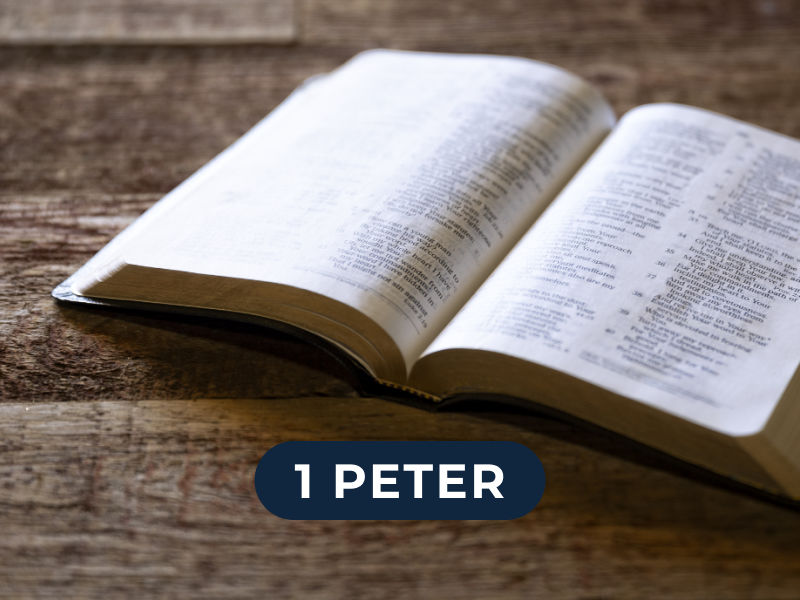
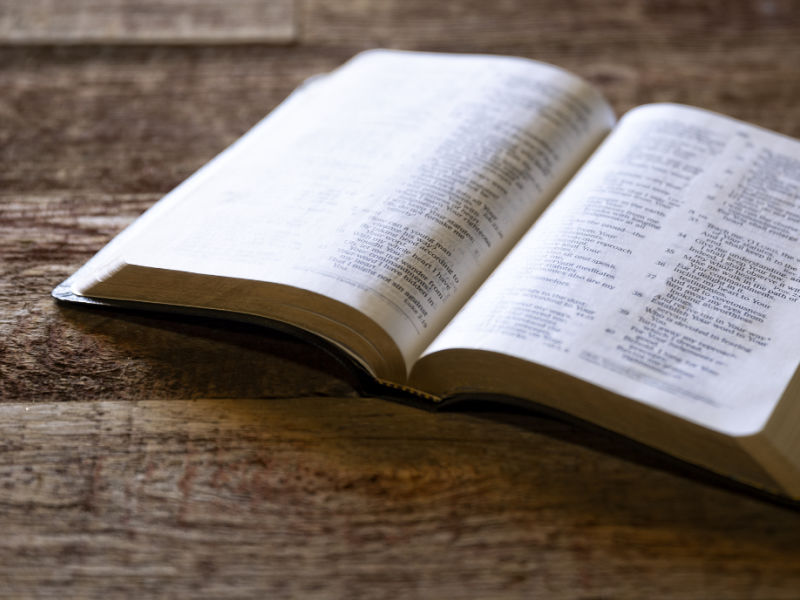
Removed text in sermon series images

Changed region(s): [[0.3125, 0.72, 0.6875, 0.87]]

diff --git a/layouts/index.html b/layouts/index.html
@@ -117,11 +117,21 @@
         {{ $latestSermon.Set "content" .Content }}
         {{ $latestSermon.Set "image" (default site.Params.sermons.defaultImage .Params.image) }}
         {{ $latestSermon.Set "alt" (default .Title .Params.series) }}
+        {{ $latestSermon.Set "series" .Params.series }}
       {{ end }}
       <div class="container">
         <div class="home-sermon | content-section | animate">
           <div class="content-section__media">
-            <img src="{{ $latestSermon.Get "image" }}" alt="{{ $latestSermon.Get "alt" }}" class="img img--fill img--rounded">
+            <figure class="sermon-image">
+              <img src="{{ $latestSermon.Get "image" }}" alt="{{ $latestSermon.Get "alt" }}" class="img img--fill img--rounded">
+              {{ with $latestSermon.Get "series" }}
+                <figcaption>
+                  <span class="pill-header">
+                    {{ . }}
+                  </span>
+                </figcaption>
+              {{ end }}
+            </figure>
           </div>
           <div class="content-section__body">
             <div class="content-section__header">

diff --git a/layouts/sermons/list.html b/layouts/sermons/list.html
@@ -4,7 +4,16 @@
         {{ range .Paginator.Pages }}
           <div class="content-section | animate">
             <div class="content-section__media">
-              <img src="{{ default site.Params.sermons.defaultImage .Params.image }}" alt="{{ default .Title .Params.series }}" class="img img--fill img--rounded">
+              <figure class="sermon-image">
+                <img src="{{ default site.Params.sermons.defaultImage .Params.image }}" alt="{{ default .Title .Params.series }}" class="img img--fill img--rounded">
+                {{ with .Params.series }}
+                  <figcaption>
+                    <span class="pill-header">
+                      {{ . }}
+                    </span>
+                  </figcaption>
+                {{ end }}
+              </figure>
             </div>
             <div class="content-section__body">
               <div class="content-section__header">

diff --git a/assets/scss/components/_page-header.scss b/assets/scss/components/_page-header.scss
@@ -1,7 +1,7 @@
 /*
 @markup
 <div class="page-header">
-  <h1>
+  <h1 class="pill-header">
     Title
   </h1>
 </div>
@@ -15,19 +15,6 @@
   background-position: bottom right;
   text-align: center;
 
-  h1 {
-    display: inline-block;
-    margin-bottom: 0;
-    padding: size(1) size(3);
-    background-color: $navy;
-    border-radius: 999px;
-    color: $white;
-    font-family: $font-family-base;
-    font-size: $font-size-lg;
-    font-weight: $font-weight-heavy;
-    letter-spacing: 2px;
-    text-transform: uppercase;
-  }
   @media (min-width: breakpoint-min-width("lg")) {
     padding: size(8) size(3);
   }

diff --git a/assets/scss/components/_pill-header.scss b/assets/scss/components/_pill-header.scss
@@ -1,0 +1,20 @@
+/*
+@markup
+<div class="pill-header">
+  Title
+</div>
+*/
+
+.pill-header {
+  display: inline-block;
+  margin-bottom: 0;
+  padding: size(1) size(3);
+  background-color: $navy;
+  border-radius: 999px;
+  color: $white;
+  font-family: $font-family-base;
+  font-size: $font-size-lg;
+  font-weight: $font-weight-heavy;
+  letter-spacing: 2px;
+  text-transform: uppercase;
+}

diff --git a/assets/scss/app/_sermons.scss b/assets/scss/app/_sermons.scss
@@ -3,3 +3,18 @@
     @include make-stack(8);
   }
 }
+
+// Sermon image
+
+.sermon-image {
+  position: relative;
+  margin-bottom: 0;
+
+  figcaption {
+    position: absolute;
+    bottom: size(3);
+    left: 0;
+    right: 0;
+    z-index: 1;
+  }
+}

diff --git a/assets/scss/main.scss b/assets/scss/main.scss
@@ -30,6 +30,7 @@
 @import "components/page-header";
 @import "components/pager";
 @import "components/paginator";
+@import "components/pill-header";
 @import "components/stack";
 @import "components/subtitle";
 @import "components/youtube-embed";

diff --git a/layouts/partials/page-header.html b/layouts/partials/page-header.html
@@ -1,6 +1,6 @@
 {{ if not .IsHome }}
 <div class="page-header animate">
-  <h1>
+  <h1 class="pill-header">
     {{ cond .IsPage page.Type .Title }}
   </h1>
 </div>
